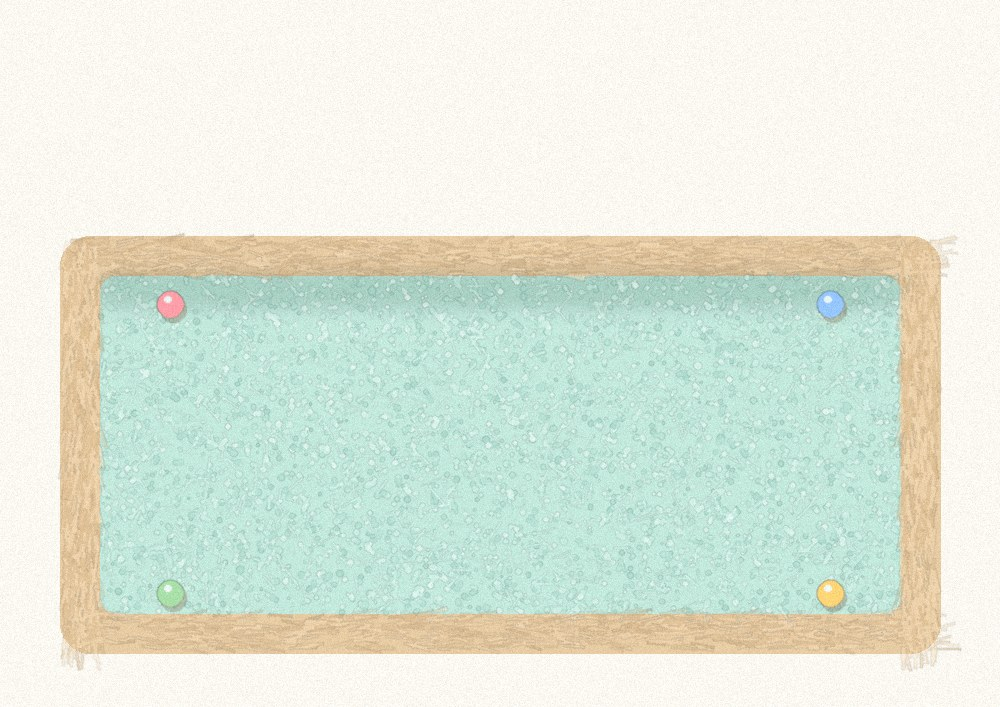
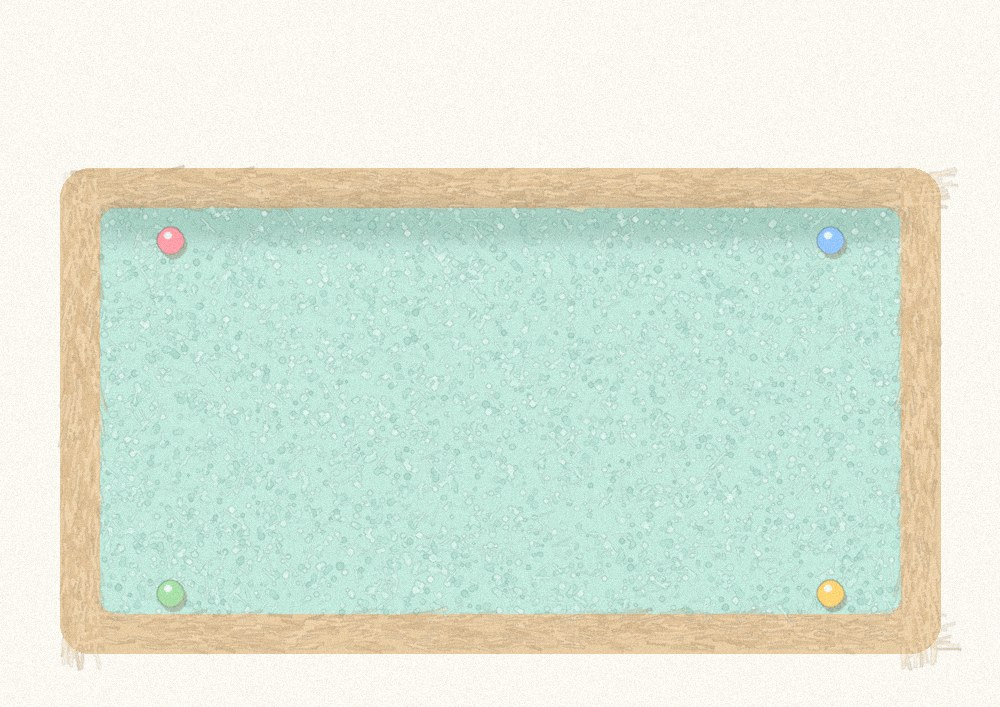
V6.3: 표시한 곡선을 따라가는 글씨, 보드 안내 위치 되돌리고 보드 늘리기
- curveText: 쪽 위에 지정한 곡선(Catmull-Rom)을 따라 글자를 한 자씩, 단어 단위로 채우고 넘치면 글씨를 줄여 맞춤
- #5 7쪽(연기 물결 3줄), 8쪽(보랏빛 연기 3줄), #4 6쪽(제목 1줄 + 미소 곡선 3줄)
- #6 10쪽: 나레이션만 위, '보드를 마음껏 꾸며보세요'는 보드 안 왼쪽 아래, 보드를 남은 공간까지

Claude-Session: https://claude.ai/code/session_01Nbh8N8c4tqUAvigBFfQUWv

diff --git a/storybook/js/main.js b/storybook/js/main.js
@@ -398,7 +398,16 @@
         var body = typeof p.text === 'function' ? p.text(c) : scene.text(c);
       }
       var block = null;
-      if (p.text && body) {
+      // 그려 준 곡선을 따라 글자를 한 자씩 놓는 나레이션 (curve). 이때는 보통 글 상자를 만들지 않는다
+      var curveDone = false;
+      if (p.curve) {
+        var ct = p.curve.text ? p.curve.text(c) : (body ? { body: flatText(body) } : null);
+        if (ct) {
+          page.append(curveText(page, p.curve, ct, p.curve.eyebrowAt ? eyebrow(scene, index, p) : null));
+          curveDone = true;
+        }
+      }
+      if (p.text && body && !curveDone) {
         var block = el('div', { class: 'pg-text is-panel' + (p.ink === 'dark' ? ' is-ink' : '') + (p.narrow ? ' is-narrow' : '') + (p.align === 'end' ? ' is-end' : '') + (p.board ? ' is-over-pad' : '') + (p.bare ? ' is-bare' : '') }, eyebrow(scene, index, p), paragraphs(body));
         if (p.wave) waveText(block, p.wave);
         if (p.tilt) block.style.transform = 'rotate(' + p.tilt + 'deg)';
@@ -413,7 +422,7 @@
         else if (block) block.append(noteEl);
       }
       if (p.nameplate) page.append(nameplateInput(leaf, p.nameplate));
-      (p.widgets || []).forEach(function (w) { append(pg, widget(w, c, leaf, index)); });
+      (p.widgets || []).forEach(function (w) { if (!(curveDone && p.curve.replacesWidgets)) append(pg, widget(w, c, leaf, index)); });
       page.append(pg, el('span', { class: 'folio', 'aria-hidden': 'true', text: index * 2 + pi + 1 }));
       spread.append(page);
     });
@@ -490,6 +499,99 @@
         });
     });
     return btn;
+  }
+
+  /* ---------- 곡선 글씨: 삽화 위에 그려 준 선을 따라 글자를 한 자씩 놓는다 ----------
+     lines: 곡선 목록(쪽 기준 0~1 좌표 점들, 부드럽게 이어 그림). head 곡선에는 제목, 나머지에는 본문을 단어 단위로 채운다.
+     글이 곡선보다 길면 글씨를 줄여 맞춘다. 쪽 크기가 바뀌면 다시 놓는다. */
+  function flatText(body) {
+    return body.map(function (para) {
+      var parts = Array.isArray(para) ? para : para.parts;
+      return parts.map(function (x) { return typeof x === 'string' ? x : x.v; }).join('');
+    }).join(' ').replace(/\s+/g, ' ').trim();
+  }
+  function curveText(page, cv, ct, eyebrowEl) {
+    var box = el('div', { class: 'curve-text curve-text--' + (cv.ink || 'dark'), 'aria-label': [ct.head, ct.body].filter(Boolean).join(' ') });
+    if (eyebrowEl) {
+      eyebrowEl.classList.add('curve-eyebrow');
+      eyebrowEl.style.left = cv.eyebrowAt[0] * 100 + '%';
+      eyebrowEl.style.top = cv.eyebrowAt[1] * 100 + '%';
+      box.append(eyebrowEl);
+    }
+    var layer = el('div', { class: 'curve-chars', 'aria-hidden': 'true' });
+    box.append(layer);
+    var measure = document.createElement('canvas').getContext('2d');
+    // Catmull-Rom으로 점들을 부드럽게 이어 촘촘한 점 목록으로
+    var sample = function (pts, W, H) {
+      var P = pts.map(function (q) { return [q[0] * W, q[1] * H]; }), out = [];
+      if (P.length === 2) P = [P[0], [(P[0][0] + P[1][0]) / 2, (P[0][1] + P[1][1]) / 2], P[1]];
+      for (var i = 0; i < P.length - 1; i++) {
+        var p0 = P[i - 1] || P[i], p1 = P[i], p2 = P[i + 1], p3 = P[i + 2] || P[i + 1];
+        for (var k = 0; k < 24; k++) {
+          var t = k / 24, t2 = t * t, t3 = t2 * t;
+          out.push([0, 1].map(function (j) {
+            return 0.5 * (2 * p1[j] + (-p0[j] + p2[j]) * t + (2 * p0[j] - 5 * p1[j] + 4 * p2[j] - p3[j]) * t2 + (-p0[j] + 3 * p1[j] - 3 * p2[j] + p3[j]) * t3);
+          }));
+        }
+      }
+      out.push(P[P.length - 1]);
+      var acc = [0];
+      for (var m = 1; m < out.length; m++) acc.push(acc[m - 1] + Math.hypot(out[m][0] - out[m - 1][0], out[m][1] - out[m - 1][1]));
+      return { pts: out, acc: acc, len: acc[acc.length - 1] };
+    };
+    var at = function (S, d) {
+      var i = 1; while (i < S.acc.length - 1 && S.acc[i] < d) i++;
+      var a = S.pts[i - 1], b = S.pts[i], seg = (S.acc[i] - S.acc[i - 1]) || 1, t = Math.min(1, Math.max(0, (d - S.acc[i - 1]) / seg));
+      return { x: a[0] + (b[0] - a[0]) * t, y: a[1] + (b[1] - a[1]) * t, ang: Math.atan2(b[1] - a[1], b[0] - a[0]) };
+    };
+    var family = getComputedStyle(document.body).fontFamily;
+    var layout = function () {
+      var W = page.clientWidth, H = page.clientHeight;
+      if (!W) return;
+      layer.replaceChildren();
+      var heads = [], bodies = [];
+      cv.lines.forEach(function (ln) { (ln.head ? heads : bodies).push(sample(ln.pts, W, H)); });
+      // 단어 단위로 곡선에 채워 본다. 마지막 곡선을 넘치면 글씨를 조금씩 줄여 다시 (최대 16번)
+      var fill = function (curves, text, fs, font, cls) {
+        if (!text || !curves.length) return;
+        var words = text.split(' ');
+        for (var tries = 0; tries < 16; tries++) {
+          measure.font = fs + 'px ' + font;
+          var space = measure.measureText(' ').width, li = 0, d = 0, out = [], over = false;
+          for (var wi = 0; wi < words.length && !over; wi++) {
+            var w = words[wi], ww = measure.measureText(w).width;
+            while (d > 0 && d + ww > curves[li].len) {
+              if (li === curves.length - 1) { over = true; break; }
+              li++; d = 0;
+            }
+            if (over) break;
+            if (d + ww > curves[li].len) { over = true; break; }
+            Array.from(w).forEach(function (ch) {
+              var cw = measure.measureText(ch).width;
+              out.push({ ch: ch, S: curves[li], d: d + cw / 2 }); d += cw;
+            });
+            d += space;
+          }
+          if (!over) {
+            out.forEach(function (o) {
+              var q = at(o.S, o.d), sp = el('span', { class: cls, text: o.ch });
+              sp.style.left = q.x + 'px'; sp.style.top = q.y + 'px'; sp.style.fontSize = fs + 'px';
+              sp.style.transform = 'translate(-50%, -78%) rotate(' + (q.ang * 180 / Math.PI).toFixed(1) + 'deg)';
+              layer.append(sp);
+            });
+            return;
+          }
+          fs *= 0.93;
+        }
+      };
+      var base = H * (mode === 'single' && Math.min(window.innerWidth, window.innerHeight) < 600 ? 0.042 : 0.047);
+      fill(heads, ct.head, base * 0.8, family, 'cch cch--head');
+      fill(bodies, ct.body, base, family, 'cch');
+    };
+    requestAnimationFrame(function () { requestAnimationFrame(layout); });
+    if (window.ResizeObserver) { var last = 0; new ResizeObserver(function () { if (page.clientWidth !== last) { last = page.clientWidth; layout(); } }).observe(page); }
+    if (document.fonts && document.fonts.ready) document.fonts.ready.then(layout);
+    return box;
   }
 
   /* ---------- 물결 글씨: 삽화의 흐름을 따라 글자가 위아래로 굽이친다 ----------

diff --git a/storybook/js/story.js b/storybook/js/story.js
@@ -149,7 +149,20 @@
       // 음식 카드는 이 펼침면 앞의 '음식 고르기' 화면에서 고른다 (그림을 가리지 않게).
       // 이 펼침면에는 글과 고른 음식의 설명, 그리고 첫 쪽(5쪽)에 붙는 음식 스티커만 있다.
       // 5쪽: 글은 위, 스티커 안내는 아래 식탁보 위 / 6쪽: 고른 음식 설명은 가운데 노란 빈자리
-      pages: [{ text: true, place: 'top', ink: 'dark', art: 'table', note: 'food-sticker', noteAt: 'bottom' }, { widgets: ['food-result'], place: 'center', art: 'feast', artPos: 'bottom' }],
+      pages: [{ text: true, place: 'top', ink: 'dark', art: 'table', note: 'food-sticker', noteAt: 'bottom' }, {
+        widgets: ['food-result'], place: 'center', art: 'feast', artPos: 'bottom',
+        // 6쪽: 고른 음식 설명을 노란 빛 아래 미소 모양 곡선을 따라 (첫 곡선은 제목)
+        curve: {
+          ink: 'dark', replacesWidgets: true,
+          text: function (c) { return c.food ? { head: '한입 냠, ' + c.food.name, body: c.food.desc } : null; },
+          lines: [
+            { head: true, pts: [[0.18, 0.34], [0.26, 0.42], [0.40, 0.44]] },
+            { pts: [[0.14, 0.39], [0.31, 0.51], [0.45, 0.56], [0.62, 0.49], [0.74, 0.33]] },
+            { pts: [[0.16, 0.51], [0.31, 0.63], [0.45, 0.68], [0.62, 0.63], [0.78, 0.45]] },
+            { pts: [[0.36, 0.73], [0.50, 0.77], [0.67, 0.69], [0.81, 0.59]] }
+          ]
+        }
+      }],
       requireMessage: '먹고 싶은 음식을 하나 골라 주세요.',
       text: function () { return [['자리에 앉아 앞을 바라보니 맛있는 음식들이 잔뜩 있어요.\n어떤 것부터 먹고 싶나요?']]; }
     },
@@ -159,9 +172,19 @@
       // 왼쪽 쪽: 위에 트레이를 끌고 오는 요정, 그 아래 빈 자리에 글 / 오른쪽 쪽: 다 먹은 식탁에서 요정을 보는 주인공
       pages: [
         // 7쪽: 글은 위쪽 연기 물결 안에 (물결을 따라 살짝 기울여)
-        { text: true, place: 'top', ink: 'dark', art: 'fairies', artPos: 'top', wave: { amp: 1.4, len: 0.8, phase: 0.2 } },
+        { text: true, place: 'top', ink: 'dark', art: 'fairies', artPos: 'top',
+          curve: { ink: 'dark', eyebrowAt: [0.24, 0.04], lines: [
+            { pts: [[0.24, 0.10], [0.39, 0.15], [0.54, 0.12]] },
+            { pts: [[0.18, 0.25], [0.43, 0.26], [0.58, 0.22], [0.72, 0.25]] },
+            { pts: [[0.45, 0.37], [0.63, 0.35], [0.82, 0.40]] }
+          ] } },
         // 8쪽: 글은 왼쪽 아래 보랏빛 연기 위에, 연기 흐름을 따라 비스듬히
-        { text: function () { return [['요정은 아이들이 했던 착한 일들을 하나하나 말해주었어요.']]; }, place: 'bottom', wide: 0.56, low: true, bare: true, wave: { amp: 1.6, len: 0.9, phase: 2.4, rise: -6 } }
+        { text: function () { return [['요정은 아이들이 했던 착한 일들을 하나하나 말해주었어요.']]; }, place: 'bottom',
+          curve: { ink: 'light', eyebrowAt: [0.30, 0.71], lines: [
+            { pts: [[0.30, 0.79], [0.46, 0.82], [0.63, 0.87]] },
+            { pts: [[0.26, 0.86], [0.43, 0.89], [0.61, 0.93]] },
+            { pts: [[0.23, 0.91], [0.33, 0.95]] }
+          ] } }
       ],
       text: function () {
         return [
@@ -181,7 +204,7 @@
         // 10쪽: 나에 대해 적는 보드 (tools/board_art.py). 착한 일 메모지·좋아하는 음식 메모지가 붙고, 그 위에 그림을 그린다
         { image: 'assets/backgrounds/06-board.jpg', widgets: ['board-draw'], place: 'top', ink: 'dark', board: true,
           text: function (c) { return [['요정이 '].concat(you(c), ['의 착한 일을 적어 보여주었어요.'])]; },
-          note: function () { return '보드를 마음껏 꾸며보세요.'; } }
+          note: function () { return '보드를 마음껏 꾸며보세요.'; }, noteAt: 'bottom' }
       ],
       text: function () { return []; },
       // 펼침면 앞의 묻는 화면에 나오는 질문
@@ -417,7 +440,7 @@
   };
 
   window.StarSoup = {
-    version: '6.2',   // 게시할 때마다 0.1씩 올린다 (index.html의 ?v= 와 맞춘다)
+    version: '6.3',   // 게시할 때마다 0.1씩 올린다 (index.html의 ?v= 와 맞춘다)
     cover: cover,
     acts: acts,
     foods: foods,

diff --git a/storybook/css/style.css b/storybook/css/style.css
@@ -1539,3 +1539,15 @@ button, .tile, .chip { touch-action: manipulation; }   /* 두 번 탭 확대와 
 /* 아래 안내도 상자 없이 */
 .pg-note--bottom { background: none; box-shadow: none; padding: 0; text-shadow: 0 0 1cqh rgb(255 252 240), 0 0 0.4cqh rgb(255 252 240); color: #5a3d1c !important; }
 .pg-text.is-bare .eyebrow { text-shadow: 0 0 1cqh rgb(60 30 100 / 0.9); }
+
+/* 곡선 글씨 */
+.curve-text { position: absolute; inset: 0; z-index: 3; pointer-events: none; }
+.curve-chars { position: absolute; inset: 0; }
+.cch { position: absolute; white-space: pre; line-height: 1; transform-origin: 50% 78%; }
+.curve-text--dark .cch { color: var(--plate-ink); text-shadow: 0 0 0.8cqh rgb(255 252 240 / 0.9); }
+.curve-text--dark .cch--head { color: #a5671a; font-family: var(--font-display); }
+.curve-text--light .cch { color: #fff; text-shadow: 0 0 1.1cqh rgb(60 30 100 / 0.95), 0 0 0.4cqh rgb(60 30 100 / 0.9); }
+.curve-eyebrow { position: absolute; margin: 0; transform: translateY(-50%); }
+.curve-text--dark .curve-eyebrow { color: #a5671a; }
+.curve-text--dark .curve-eyebrow .no { color: #8a7560; }
+.curve-text--light .curve-eyebrow { color: #ffd98a; text-shadow: 0 0 1cqh rgb(60 30 100 / 0.9); }

diff --git a/storybook/index.html b/storybook/index.html
@@ -8,8 +8,8 @@
 <link rel="preconnect" href="https://fonts.googleapis.com">
 <link rel="preconnect" href="https://fonts.gstatic.com" crossorigin>
 <link rel="stylesheet" href="https://fonts.googleapis.com/css2?family=Gowun+Dodum&family=Jua&display=swap">
-<link rel="stylesheet" href="css/style.css?v=6.2">
-<link rel="stylesheet" href="css/editor.css?v=6.2">
+<link rel="stylesheet" href="css/style.css?v=6.3">
+<link rel="stylesheet" href="css/editor.css?v=6.3">
 </head>
 <body>
 <div class="app" id="app" data-screen="cover">
@@ -218,10 +218,10 @@
   </div>
 </div>
 
-<script src="js/storage.js?v=6.2"></script>
-<script src="js/story.js?v=6.2"></script>
-<script src="js/drawing.js?v=6.2"></script>
-<script src="js/weather.js?v=6.2"></script>
-<script src="js/main.js?v=6.2"></script>
+<script src="js/storage.js?v=6.3"></script>
+<script src="js/story.js?v=6.3"></script>
+<script src="js/drawing.js?v=6.3"></script>
+<script src="js/weather.js?v=6.3"></script>
+<script src="js/main.js?v=6.3"></script>
 </body>
 </html>

diff --git a/storybook/tools/board_art.py b/storybook/tools/board_art.py
@@ -14,7 +14,7 @@ img = Image.new('RGBA', (W, H), (252, 249, 242, 255))
 
 # 보드 틀(연한 나무색) + 안쪽 판(파스텔 민트)
 F = 40
-TOP = 236   # 보드 위쪽 (그 위 빈 종이에 나레이션)
+TOP = 168   # 보드 위쪽 (그 위 빈 종이에 나레이션)
 frame = layer(); fd = ImageDraw.Draw(frame)
 fd.rounded_rectangle((60, TOP, W - 60, H - 54), radius=30, fill=(232, 204, 164, 255))
 fd.rounded_rectangle((60 + F, TOP + F, W - 60 - F, H - 54 - F), radius=16, fill=(196, 234, 222, 255))
@@ -49,7 +49,7 @@ img.alpha_composite(fr.filter(ImageFilter.GaussianBlur(0.6)))
 
 # 구석의 작은 장식: 색 압정 몇 개와 별 스티커
 dec = layer(); dd = ImageDraw.Draw(dec)
-for (u, v, c) in [(0.17, 0.43, (255, 160, 170)), (0.83, 0.43, (150, 200, 255)), (0.17, 0.84, (170, 225, 170)), (0.83, 0.84, (255, 214, 120))]:
+for (u, v, c) in [(0.17, 0.34, (255, 160, 170)), (0.83, 0.34, (150, 200, 255)), (0.17, 0.84, (170, 225, 170)), (0.83, 0.84, (255, 214, 120))]:
     x, y = u * W, v * H
     dd.ellipse((x - 13 + 3, y - 13 + 5, x + 13 + 3, y + 13 + 5), fill=(120, 80, 50, 70))
     dd.ellipse((x - 13, y - 13, x + 13, y + 13), fill=c + (255,))
